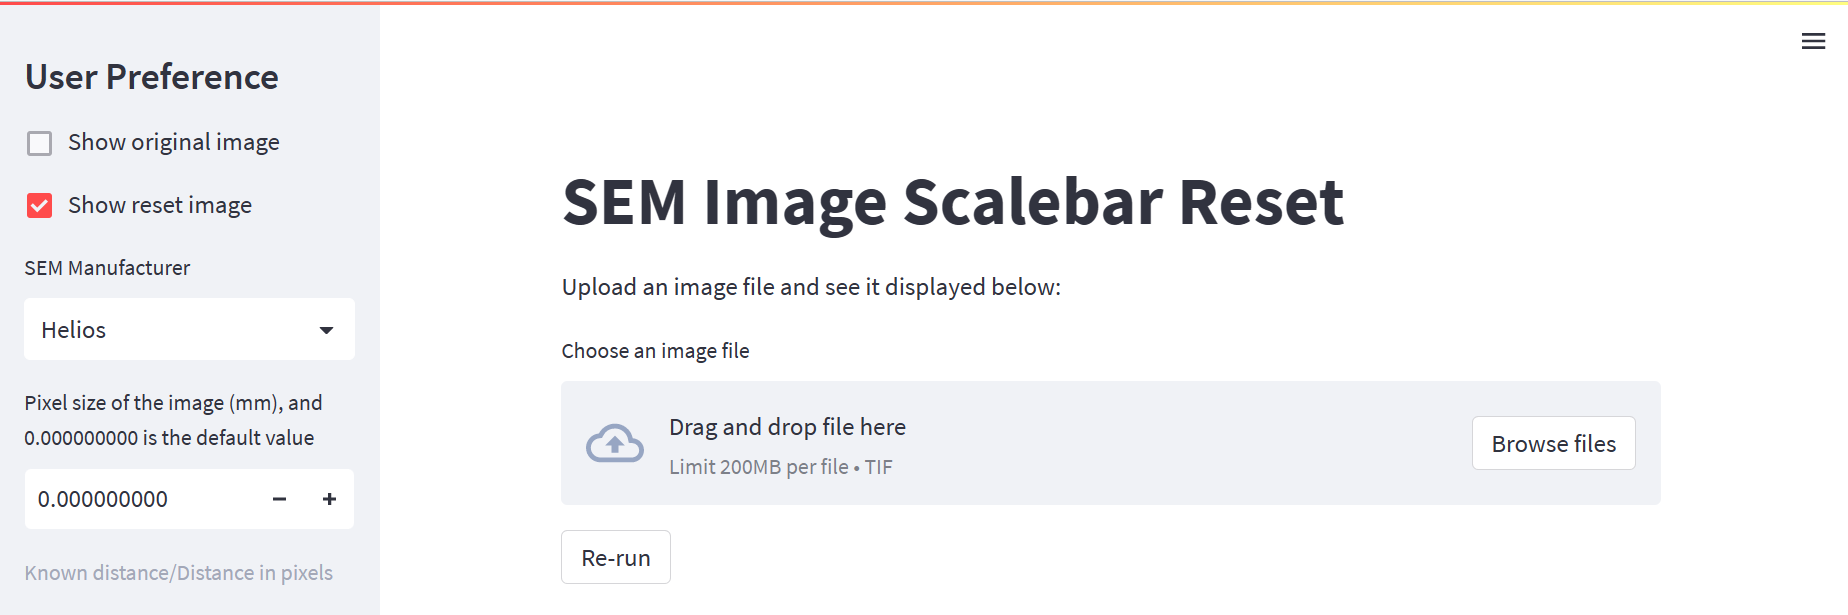
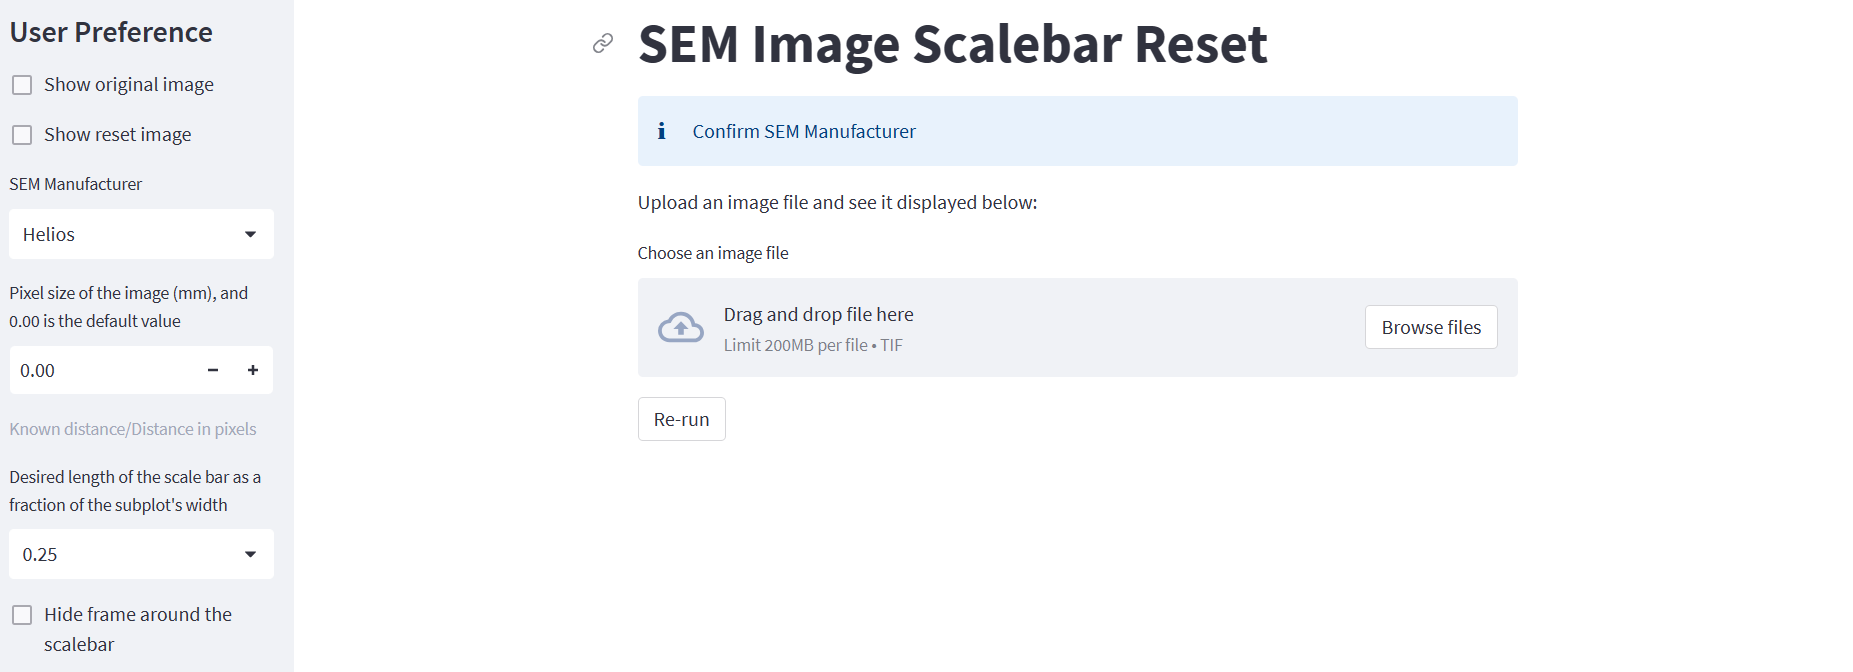
pixel size in nm

diff --git a/SEM_scalebar_reset.py b/SEM_scalebar_reset.py
@@ -20,7 +20,7 @@ if not OUTPUT_PATH.exists():
     OUTPUT_PATH.mkdir()  # Create an output folder to save all generated data/files
 SEM_MANUFACTURER = 'Helios'  # 'Helios', 'JEOL', 'Hitachi'
 LENGTH_FRACTION = 0.25  # 0.25, 0.5, 0.75, 1.0 Desired length of the scale bar in fraction of the image width
-SIZE_OF_ONE_PIXEL = 0.000000000  # 0.000000000 is the default value
+SIZE_OF_ONE_PIXEL = 0.00  # 0.00 is the default value
 SHOW_FRAMEON = True  # True or False
 
 
@@ -47,8 +47,8 @@ def streamlit_mode():
         'SEM Manufacturer',
         ('Helios', 'JEOL', 'Hitachi'))  # 'Zeiss', 'FEI',
 
-    size_of_one_pixel = st.sidebar.number_input('Pixel size of the image (mm), and 0.000000000 is the default value',
-                                                format='%.9f')
+    size_of_one_pixel = st.sidebar.number_input('Pixel size of the image (mm), and 0.00 is the default value',
+                                                format='%.2f')
     st.sidebar.caption('Known distance/Distance in pixels')
 
     length_fraction = st.sidebar.selectbox(
@@ -113,7 +113,7 @@ def streamlit_mode():
                             frameon=hide_frameon,
                             font_properties={'size': 'small'}) \
             if size_of_one_pixel == 0 \
-            else ScaleBar(size_of_one_pixel, 'mm',
+            else ScaleBar(size_of_one_pixel, 'nm',
                           length_fraction=length_fraction,
                           location='lower right',
                           color='white',
@@ -197,7 +197,7 @@ def local_mode():
                                 frameon=SHOW_FRAMEON,
                                 font_properties={'size': 'small'}) \
                 if SIZE_OF_ONE_PIXEL == 0 \
-                else ScaleBar(SIZE_OF_ONE_PIXEL, 'mm',
+                else ScaleBar(SIZE_OF_ONE_PIXEL, 'nm',
                               length_fraction=LENGTH_FRACTION,
                               location='lower right',
                               color='white',

diff --git a/README.md b/README.md
@@ -8,15 +8,15 @@ This program assists in cropping the bottom information bar of the SEM image and
 
 ### 1. Define the user input
 ### 2. Upload the SEM image
-### 3. Update the pixel size in mm if needed
+### 3. Update the pixel size in nm if needed
 
 <p align="center">
   <img src="./pixel_size.png" alt="Size Limit CLI" width="300">
 </p>
 
-Known distance in mm / Distance in pixels = Pixel size (mm/pixel)
+Known distance in nm / Distance in pixels = Pixel size (nm/pixel)
 
-e.g. 0.004 mm / 711 pixels = 5.62e-6 mm/pixel, and then set the pixel size to 0.00000562
+e.g. 4000 nm (4 um) / 711 pixels = 5.626 nm/pixel, and then set the pixel size to 5.63
 
 ### 4. Download the cropped image with a new scale bar
 
